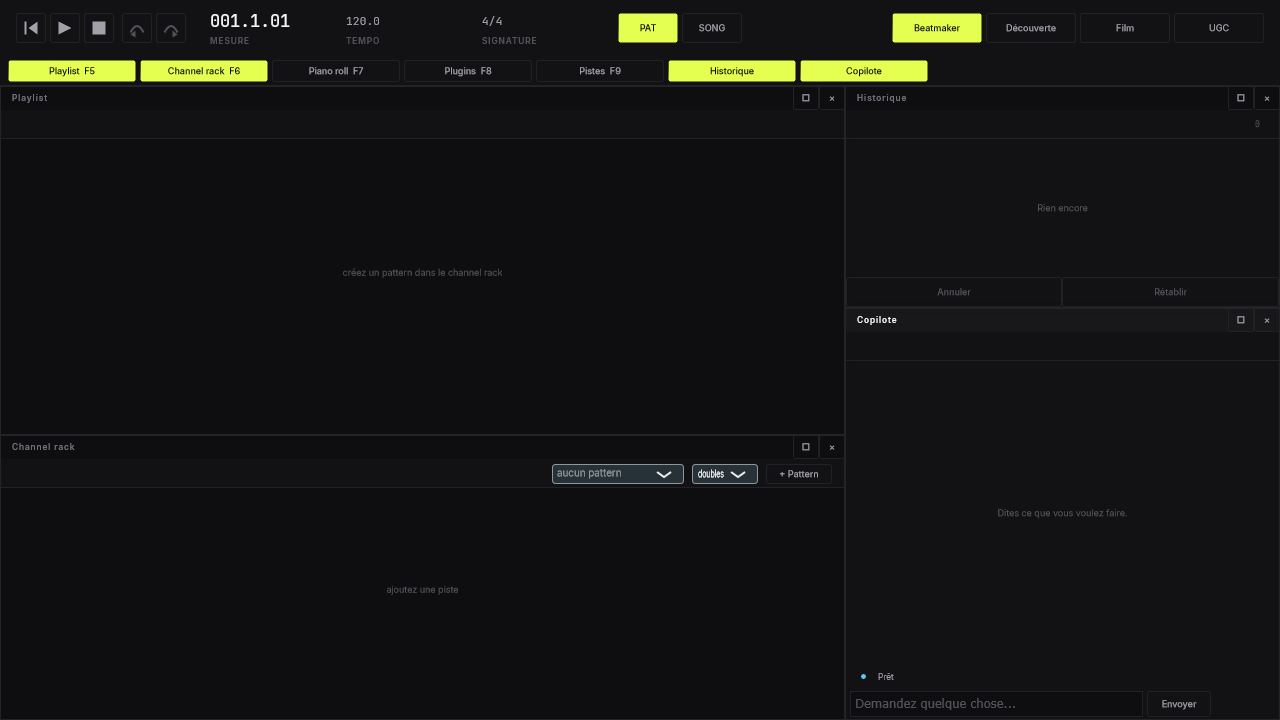
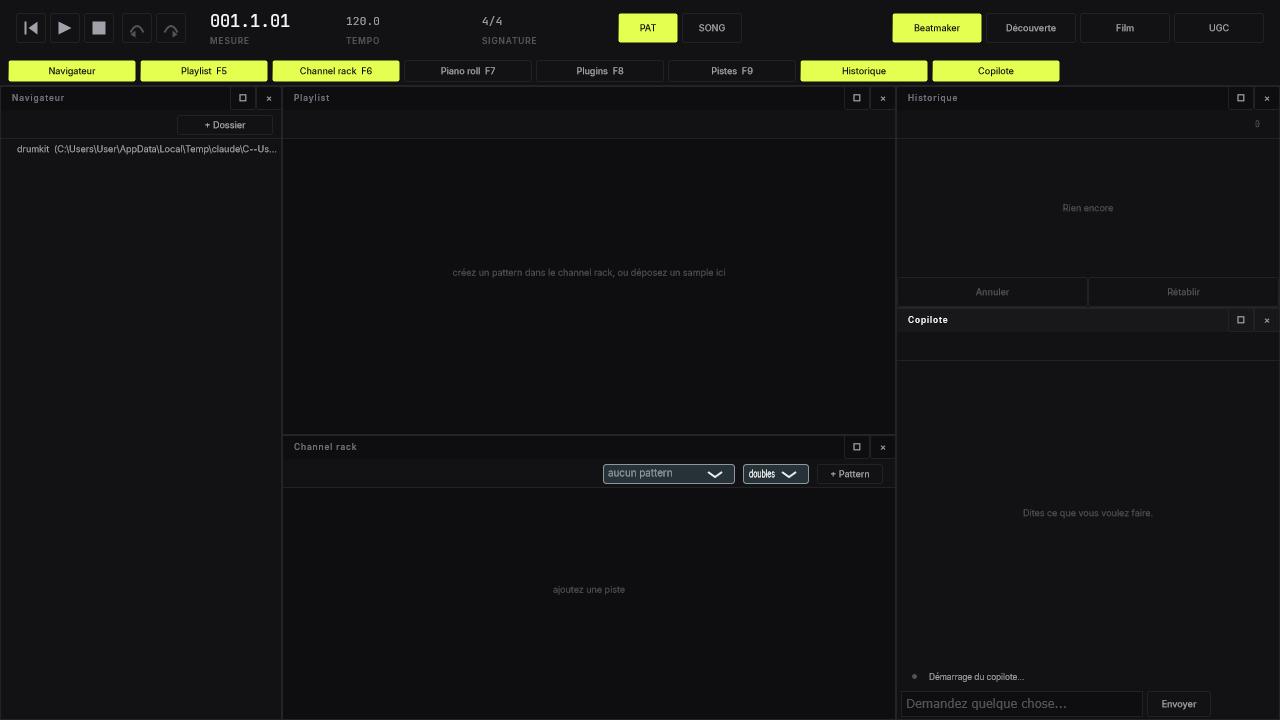
Bilan S10 : samples, sélection, 94 vérifications

diff --git a/docs/bilan-s10.md b/docs/bilan-s10.md
@@ -3,10 +3,15 @@
 **Période :** semaine 10 sur 26. Rédigé le 23 septembre 2026.
 **Dépôt :** `samflppp/daw-ia` (privé), branche `main`, 10 commits S10 (`295d36d` → `HEAD`).
 **Volume :** 37 fichiers, +2 657 lignes, −230 (IDEES.md compris).
-**Tests :** 222 cas hors audio (202 de domaine, 20 de persistance), 58 cas d'engine sous label
-`audio`, 18 cas Python.
-**Registry :** 38 types de commandes, contre 33 la semaine dernière.
-**Schéma de projet :** 4, inchangé.
+**Tests :** 233 cas hors audio (domaine et persistance), 61 cas d'engine sous label `audio`,
+18 cas Python, au dernier passage complet.
+**Registry :** 42 types de commandes, contre 33 la semaine dernière (38 pour la playlist, 4 pour les
+samples).
+**Schéma de projet :** 4. Les samples ajoutent deux champs optionnels, écrits seulement s'ils
+servent : un projet sans sample s'écrit à l'octet près comme avant.
+
+**Mis à jour le 24 septembre** avec la seconde demande de la semaine : barre espace, navigateur de
+samples, canal sampler, clips audio, sélection et copier-coller façon FL (§8 ter).
 
 La S9 avait séparé le contenu de sa position. Cette semaine, la position est devenue un écran : la
 playlist. Et l'affirmation « modifié une fois, change partout » est maintenant prouvée par un rendu
@@ -24,6 +29,8 @@ audio, plus seulement par une lecture de l'état.
 | 5 | Projection par identité, sans reconstruire ce qui n'a pas changé, piège du tempo compris | Livré | §3.1, compteurs et identité d'objet |
 | 6 | Commandes dans la table du copilote ; « répète le pattern 1 huit fois puis ajoute le pattern 2 » | Livré : une entrée copilote, un Ctrl+Z | §5 ; §8, point 7 |
 | 7 | Les projets des semaines précédentes se relisent | Livré | §6 ; trois processus, 22 ms puis 28 ms |
+| 8 | Demandé en cours de semaine : pages en fenêtres | Livré | §8 bis |
+| 9 | Demandé en cours de semaine : espace, samples, glisser-déposer, sélection, Ctrl+C/V/B | Livré | §8 ter |
 
 ## 2. Le modèle de placement retenu
 
@@ -124,7 +131,7 @@ moins 16 mesures, plus 4 mesures libres après la dernière pose.
 ## 5. Le copilote
 
 - Les 5 nouvelles commandes sont dans la table. Le test croisé registry ↔ table passe dans les
-  deux sens (38 = 38).
+  deux sens (38 = 38 pour la playlist, 42 = 42 avec les samples).
 - L'état résumé donne à chaque pattern son **rang** (`rank`) et le **libellé** affiché (`label`).
   Ainsi « le pattern 2 » désigne la même chose pour l'utilisateur et pour le modèle. Il donne
   aussi `arrangementEndBeats`, la fin du morceau, et le mode de lecture.
@@ -168,6 +175,9 @@ avec les commandes d'aujourd'hui, dont les payloads n'ont pas changé ; le test 
 |---|---|
 | Redimensionner une pose | décision validée ; §2 |
 | Défilement et zoom de la playlist | la timeline s'adapte à la largeur. Au-delà d'une soixantaine de mesures, les blocs deviennent étroits |
+| Écoute d'un sample dans le navigateur | un clic sur un sample ne le joue pas encore ; il faut le déposer pour l'entendre |
+| Réglages du sampler (note de base, enveloppe, hauteur) | le canal joue le sample en entier à sa hauteur d'origine ; aucun réglage exposé |
+| Couper ou étirer un clip audio | un clip dure son sample, comme une pose dure son pattern |
 | Lignes libres façon FL (plusieurs patterns sur une ligne) | écarté à la validation : ce serait un état d'écran dans le domaine |
 
 **IDEES.md :** aucune idée du fichier n'a servi cette semaine, et rien n'y a été mis en œuvre.
@@ -194,9 +204,13 @@ boutons. Les Ctrl+Z passent par la vue, et la phrase est posée au vrai copilote
 laisse une capture de la fenêtre. Chaque étape qui change le son rend l'Edit hors ligne en WAV
 et compte les attaques sur la grille du rack.
 
-Résultat : **60 vérifications, aucune en échec**, sur trois exécutions : la liste (51), la
-réouverture par un autre processus (5), un projet S8 + S9 (4). Les rapports et trois captures sont
-dans `docs/verification-s10/`.
+Résultat : **94 vérifications, aucune en échec**, sur trois exécutions du build final : la liste
+(85, dont les 34 de la seconde demande, §8 ter), la réouverture par un autre processus (5), un
+projet S8 + S9 (4). Les rapports et cinq captures sont dans `docs/verification-s10/`.
+
+Un premier passage de la liste a eu 5 échecs, tous au copilote, parce que l'appel au modèle a
+expiré (« The handshake operation timed out »). C'était le réseau, pas le code : le second passage
+les a tous passés, sans rien changer.
 
 | # | Vérification | Mesuré |
 |---|---|---|
@@ -221,8 +235,9 @@ l'exécutable. Le second passage a été lancé volontairement hors du dépôt, 
 
 **Ce que le copilote a répondu :** « Le pattern 1 était déjà répété huit fois (0 à 128). J'ai
 ajouté le pattern 2 à la suite ». Huit poses existaient déjà, donc sa lecture est défendable. En
-revanche il a écrit « à partir de la mesure 128 » alors qu'il s'agit du **temps** 128 (mesure 33).
-C'est le prompt qu'il faut reprendre : lui faire donner les positions en mesures.
+revanche il a d'abord écrit « à partir de la mesure 128 » alors qu'il s'agit du **temps** 128
+(mesure 33). Le prompt dit maintenant que les outils parlent en temps et l'utilisateur en mesures,
+avec la conversion. Au passage suivant : « à partir de la mesure 33 ».
 
 **Ce qui reste hors de portée d'une vérification automatique :**
 - l'écoute sur les enceintes : le rendu hors ligne en est la mesure, pas l'expérience ;
@@ -260,6 +275,81 @@ vide pour la playlist et le copilote. Et un pattern de 4 mesures affiche 64 pas 
 rack. FL ouvre un pattern sur 1 mesure ; le passer à 1 mesure par défaut serait un choix à
 valider.
 
+## 8 ter. Samples, sélection, copier-coller
+
+Ta demande, et tes deux choix : un sample déposé sur le rack devient un **canal sampler** ; la
+playlist prend des **clips audio** tout de suite.
+
+**Le modèle.** Deux ajouts au domaine, sans migration :
+
+| Ajout | Contenu | Commandes |
+|---|---|---|
+| `Track.sample` (optionnel) | `SampleRef` : empreinte des octets dans le ContentStore, nom, format, durée | `track.set_sample` |
+| `AudioClip` | identifiant, piste, `SampleRef`, temps de début ; pas de longueur, il dure son sample | `audio.place`, `audio.move`, `audio.remove` |
+
+Les octets sont **copiés dans le projet** par leur empreinte. Un projet ne dépend donc pas du
+dossier d'où vient le sample : on peut vider ou déplacer le drumkit, le projet sonne pareil.
+`track.remove` emporte les clips audio de la piste, et son annulation les rend avec leur rang.
+
+**Le moteur.** Un canal sampler porte un `SamplerPlugin` à la place du synthé. Les clips audio
+vivent sur une **piste compagnon** : un instrument remplace l'audio qui entre dans sa piste, et un
+clip posé sur la piste du sampler aurait été muet. Le test de rendu l'a montré avant qu'un écran
+le cache. Les clips audio suivent la même réconciliation par clé : déplacer un clip le repositionne
+sans le recréer, et à 60 BPM il garde son objet et sa durée en secondes. En mode pattern, ils se
+taisent.
+
+**L'écran.**
+
+| Geste | Effet |
+|---|---|
+| Espace | lecture / arrêt, depuis n'importe quelle page |
+| page **Navigateur** (à gauche) | « + Dossier » donne accès à un drumkit ou un sample pack ; arbre ouvert à la demande ; clic droit sur un dossier racine pour le retirer ; dossiers gardés dans `DAW IA.layout` |
+| déposer un sample sur une ligne du rack | ce canal devient sampler |
+| déposer un sample sous les lignes du rack | nouveau canal sampler, nommé d'après le fichier ; **une** entrée d'historique |
+| déposer un sample sur la playlist (depuis le navigateur ou l'Explorateur) | nouvelle piste + clip audio à la mesure sous le pointeur ; **une** entrée |
+| glisser des blocs | toute la sélection bouge ; **une** entrée, quel que soit le nombre de blocs |
+| Ctrl + glisser dans le vide | sélection en zone |
+| Ctrl + Maj + clic | ajoute un bloc à la sélection, ou l'en retire |
+| Ctrl+C, Ctrl+V | copie ; colle à la tête de lecture |
+| Ctrl+B | duplique la sélection juste après elle, arrondie à la mesure ; la sélection passe aux copies, donc Ctrl+B répété enchaîne |
+| Suppr | retire la sélection |
+
+Le copilote voit les samples et les clips audio dans l'état résumé. Il peut déplacer et retirer un
+clip audio. Il ne peut pas en poser un ni changer le sample d'un canal : il faudrait qu'il fournisse
+des octets, ce qu'il n'a pas.
+
+**Vérifié par l'application (34 des 85) :** Espace lance puis arrête la lecture. Le navigateur
+montre un drumkit écrit pour l'occasion. Le dépôt sur le rack crée un canal « Kick 808 » en une
+entrée. Ses cases allumées s'entendent au rendu, aux bons pas. Le clap déposé sur la playlist
+s'entend à son temps, et le rendu va jusqu'au bout du clap. Ctrl + glisser prend 2 blocs. Ctrl +
+Maj + clic en ajoute un, puis le retire. Ctrl+B ajoute 2 poses en une entrée, et un Ctrl+Z les
+retire. Ctrl+C / Ctrl+V colle au temps 100. Suppr retire, et Ctrl+Z rend l'état à l'octet près.
+
+**Le bug que tu as trouvé : un sample déposé sur la playlist ne sonnait pas.** L'application
+s'ouvre en mode pattern, et le mode pattern ne joue que le pattern écouté : le clip audio était
+bien posé, mais muet tant qu'on n'appuyait pas sur SONG. La vérification ne l'avait pas vu, parce
+qu'elle appuyait sur SONG juste avant le dépôt. Maintenant, un dépôt sur la playlist passe en mode
+chanson. La vérification dépose désormais en PAT et contrôle que SONG est pris et que le clap
+s'entend. Si tu n'entends toujours rien en direct, c'est un autre bug : le rendu hors ligne, lui,
+entend le clap.
+
+**Trouvé en vérifiant :** le coller prenait l'horloge du moteur même à l'arrêt ; il prend
+maintenant la position du transport quand rien ne joue. La page Navigateur était plus étroite que
+sa largeur minimale, et une fenêtre se cachait sous la playlist. Elle est élargie, et la mémoire
+des fenêtres se remet à zéro d'elle-même quand la disposition du manifeste change.
+
+## 8 quater. Ce qui reste pour clore la S10
+
+| Reste | Nature |
+|---|---|
+| Commit de la seconde demande, `--verify-reopen` et `--verify-legacy` sur le build final | fait |
+| Prompt du copilote en mesures | fait ; il dit « mesure 33 » |
+| Un sample déposé sur la playlist restait muet | corrigé (§8 ter) |
+| Longueur par défaut d'un pattern | **tranché par toi : 4 mesures**, c'est déjà le cas |
+| Bande d'en-tête de la fenêtre principale : fermer, réduire, agrandir, ouvrir, enregistrer | demandée ; décision de structure à valider avant de coder |
+| Bandes d'en-tête vides dans les pages | cosmétique ; à traiter avec la bande ci-dessus |
+| Écoute sur les enceintes | à faire par toi : seul point qu'aucun rendu ne remplace |
+
 ## 9. Ce que la S11 hérite
 
 | Pièce | Usage |
@@ -267,7 +357,9 @@ valider.
 | `ProjectProjector::stats()` | tout ajout au moteur peut prouver qu'il ne reconstruit pas plus que nécessaire |
 | `transport.set_mode` | le point d'entrée pour faire écouter un pattern généré avant de le poser |
 | `arrangementEndBeats`, `rank`, `label` | le vocabulaire d'arrangement du copilote |
-| Pose tronquée, défilement de la playlist | reportés, sans migration |
+| `SampleRef`, ContentStore par empreinte | tout audio importé ou généré entre dans le projet par le même chemin |
+| Piste compagnon | le modèle pour mêler instrument et audio sur une même piste du domaine |
+| Pose tronquée, défilement de la playlist, écoute dans le navigateur | reportés, sans migration |
 
 ## 10. Suivi d'avancement
 
@@ -275,7 +367,7 @@ valider.
 |---|---|---|
 | S1–S8 | Socle, bus, moteur, plugins, persistance, UI, domaine, copilote | Acquis |
 | S9 | Channel rack, modèle de pattern | Acquis |
-| S10 | La playlist, puis le beatmaker en fenêtres | Livré ; 60 vérifications automatiques : §8 |
+| S10 | La playlist, le beatmaker en fenêtres, les samples | Livré ; 94 vérifications automatiques (§8) ; reste la bande d'en-tête (§8 quater) |
 
 Aucune décision d'architecture n'a été rouverte. La règle des identifiants tient : chaque
 `PlacementId` est tiré par l'appelant (la playlist, le copilote avec `$new:`), jamais par une

diff --git a/docs/verification-s10/rapport-liste.md b/docs/verification-s10/rapport-liste.md
@@ -1,4 +1,4 @@
-# Vérification S10 — 24 Sep 2026 9:36:01pm
+# Vérification S10 — 25 Sep 2026 12:35:53am
 
 
 ## 1. disposition
@@ -82,7 +82,7 @@
 - capture : `14-«-répète-le-pattern-1-huit-fois-puis-ajoute-le-pattern-2-».png`
 
 ## 15. ce que le copilote a fait
-- réponse : « Le pattern 1 était déjà répété huit fois (0 à 128). J'ai ajouté le pattern 2 à la suite, à partir de la mesure 128. »
+- réponse : « Le pattern 1 était déjà posé huit fois (temps 0 à 128), j'ai ajouté le pattern 2 à la suite, à partir de la mesure 33. »
 - OK : une seule entrée d'historique
 - OK : marquée copilote
 - poses du pattern 1 : 8, du pattern 2 : 1
@@ -123,5 +123,77 @@
 - OK : Ctrl+Z le remet au même endroit
 - capture : `20-le-nouveau-nom-dans-le-rack-puis-supprimer-et-rétablir.png`
 
+## 21. Espace lance la lecture
+- capture : `21-Espace-lance-la-lecture.png`
+
+## 22. Espace l'arrête
+- OK : la lecture tournait
+- capture : `22-Espace-l'arrête.png`
+
+## 23. le navigateur montre un drumkit
+- OK : la page Navigateur est ouverte
+- OK : le dossier du drumkit est dans l'arbre
+- OK : ses deux samples y sont
+- OK : un sample se glisse par son chemin
+- capture : `23-le-navigateur-montre-un-drumkit.png`
+
+## 24. déposer un sample sous les canaux du rack crée un canal sampler
+- OK : le rack accepte un dépôt
+- OK : un sample du navigateur l'intéresse
+- OK : un canal de plus
+- OK : une seule entrée d'historique
+- OK : le canal joue « Kick 808.wav »
+- OK : nommé d'après le sample
+- octets copiés dans le projet : 35384, empreinte d8e7a4e21db5…
+- capture : `24-déposer-un-sample-sous-les-canaux-du-rack-crée-un-canal-sampler.png`
+
+## 25. le canal sampler joue ses cases
+- écoute : `20a-avant-sampler.wav`, 10.67 s, 8 attaques
+- écoute : `20b-canal-sampler.wav`, 10.67 s, 8 attaques
+- OK : le sample s'entend sur les pas 2, 6, 10, 14 qu'on vient d'allumer
+- OK : les hats du pattern sont toujours là : le sampler s'ajoute, il ne remplace rien
+- attaques avant : 8, après : 8 ; un hat collé derrière un coup du sampler est sous sa queue
+- capture : `25-le-canal-sampler-joue-ses-cases.png`
+
+## 26. déposer un sample sur la playlist pose un clip audio
+- OK : la playlist accepte un dépôt
+- OK : un clip audio
+- OK : une seule entrée d'historique : la piste et le clip ensemble
+- OK : le dépôt passe en mode chanson : en PAT, le clip serait muet
+- OK : posé à la mesure sous le pointeur, temps 148.000000
+- OK : il dure son sample : 1,5 s
+- écoute : `21-clip-audio.wav`, 100.17 s, 41 attaques
+- OK : le clap s'entend à son temps
+- OK : le rendu va jusqu'au bout du clap
+- capture : `26-déposer-un-sample-sur-la-playlist-pose-un-clip-audio.png`
+
+## 27. Ctrl + glisser sélectionne une zone
+- OK : deux blocs pris dans la zone : 2
+- capture : `27-Ctrl-+-glisser-sélectionne-une-zone.png`
+
+## 28. Ctrl + Maj + clic ajoute un bloc à la sélection
+- OK : trois blocs sélectionnés
+- OK : un second Ctrl + Maj + clic le retire
+- capture : `28-Ctrl-+-Maj-+-clic-ajoute-un-bloc-à-la-sélection.png`
+
+## 29. Ctrl+B duplique la sélection juste après elle
+- OK : deux poses de plus
+- OK : une seule entrée d'historique
+- OK : les copies commencent aux temps 32 et 48
+- OK : la sélection passe aux copies, prête pour un autre Ctrl+B
+- OK : un Ctrl+Z les retire toutes les deux
+- capture : `29-Ctrl+B-duplique-la-sélection-juste-après-elle.png`
+
+## 30. Ctrl+C puis Ctrl+V colle à la tête de lecture
+- OK : un bloc sélectionné au clic
+- OK : une pose de plus
+- OK : au temps 100, là où est la tête
+- capture : `30-Ctrl+C-puis-Ctrl+V-colle-à-la-tête-de-lecture.png`
+
+## 31. Suppr retire la sélection, Ctrl+Z la rend
+- OK : le bloc collé est retiré
+- OK : Ctrl+Z le remet, à l'octet près
+- capture : `31-Suppr-retire-la-sélection-Ctrl+Z-la-rend.png`
+
 ## Résultat
-- 51 vérifications passées, 0 en échec
+- 85 vérifications passées, 0 en échec

diff --git a/docs/verification-s10/rapport-reouverture.md b/docs/verification-s10/rapport-reouverture.md
@@ -1,15 +1,15 @@
-# Vérification S10 — 24 Sep 2026 9:37:22pm
+# Vérification S10 — 25 Sep 2026 12:39:06am
 
 
 ## 1. réouverture
 - OK : l'état gardé à la fermeture est lisible
 - OK : même état après réouverture par un autre processus
-- OK : même profondeur d'historique : 27
+- OK : même profondeur d'historique : 34
 - OK : rouvert en mode pattern
 - capture : `1-réouverture.png`
 
 ## 2. elle sonne pareil
-- écoute : `11-rouvert.wav`, 96.00 s, 40 attaques
+- écoute : `11-rouvert.wav`, 100.17 s, 45 attaques
 - OK : le morceau rouvert sonne
 - capture : `2-elle-sonne-pareil.png`
 

diff --git a/docs/verification-s10/rapport-ancien-projet.md b/docs/verification-s10/rapport-ancien-projet.md
@@ -1,4 +1,4 @@
-# Vérification S10 — 24 Sep 2026 9:37:52pm
+# Vérification S10 — 25 Sep 2026 12:38:42am
 
 
 ## 1. un projet des neuf premières semaines
